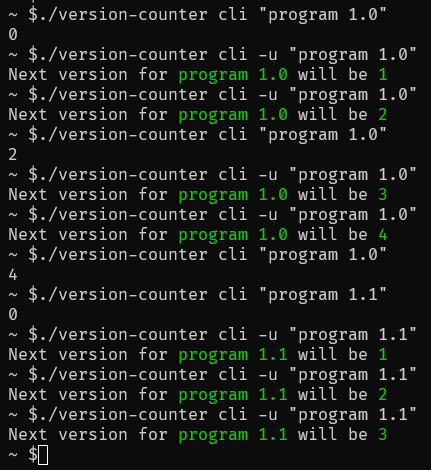
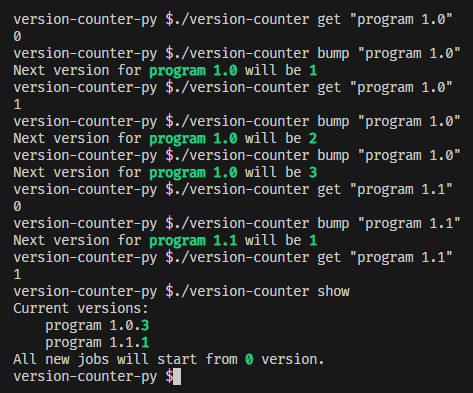
Simplify cli api - remove 'cli *' unnecessary prefix mode and create direct 'get' and 'bump' modes

diff --git a/src/main.py b/src/main.py
@@ -6,7 +6,7 @@ from version_maintainer import VersionMaintainer
 
 def run():
     parser = argparse.ArgumentParser(
-        description='Python service/cli tool for computing next version value')
+        description='Python service/cli tool for computing next version value. Source code: https://github.com/malciin/version-counter-py')
     
     parser.add_argument(
         '--versions-dir',
@@ -19,9 +19,13 @@ def run():
         help='mode',
         required=True)
     
-    cli_parser = subparsers.add_parser('cli')
-    cli_parser.add_argument('-u', '--update', action='store_true')
+    cli_parser = subparsers.add_parser('get')
     cli_parser.add_argument('job')
+
+    cli_parser = subparsers.add_parser('bump')
+    cli_parser.add_argument('job')
+
+    cli_parser = subparsers.add_parser('show')
     
     listen_parser = subparsers.add_parser('listen')
     listen_parser.add_argument(
@@ -31,7 +35,7 @@ def run():
 
     args = parser.parse_args() 
 
-    version_maintainer = VersionMaintainer(args.versions_dir, silent_mode = args.mode == 'cli')
+    version_maintainer = VersionMaintainer(args.versions_dir, silent_mode = args.mode != 'listen')
 
     if args.mode == 'listen':
         ip, port = args.address.split(':')
@@ -48,12 +52,13 @@ def run():
             except KeyboardInterrupt:
                 print('Closing... ', end='')
         print('Gracefully closed')
+    elif args.mode == 'bump':
+        next_version = version_maintainer.bump_version_number(args.job)
+        print(f'Next version for {utils.accent_text(args.job)} will be {utils.accent_text(str(next_version))}')
+    elif args.mode == 'get':
+        print(version_maintainer.get_version_number(args.job))
     else:
-        if args.update:
-            next_version = version_maintainer.bump_version_number(args.job)
-            print(f'Next version for {utils.accent_text(args.job)} will be {utils.accent_text(str(next_version))}')
-        else:
-            print(version_maintainer.get_version_number(args.job))
+        version_maintainer.print_current_versions_values()
 
 if __name__ == '__main__':
     run()

diff --git a/src/version_maintainer.py b/src/version_maintainer.py
@@ -18,7 +18,7 @@ class VersionMaintainer:
 
         if not silent_mode:
             print(startup_log)
-            self.__print_current_versions_values()
+            self.print_current_versions_values()
         
     def get_version_number(self, prefix: str) -> int:
         version_path = self.__get_path(prefix)
@@ -41,6 +41,21 @@ class VersionMaintainer:
             fprint(f'{v}')
 
         return v
+    
+    def print_current_versions_values(self) -> str:
+        any_printed = False
+
+        print('Current versions:')
+        for z in Path(self.__versions_dir).rglob('*/*'):
+            if not any_printed:
+                any_printed = True
+            splitted = utils.read_utf8(z).splitlines()
+            version = self.__get_version_number(splitted)
+            print(f'    {splitted[0][2:]}.{utils.accent_text(str(version))}')
+        
+        if not any_printed: print('    <None>')
+
+        print(f'All new jobs will start from {utils.accent_text(0)} version.')
 
     def __get_key(self, prefix: str) -> str:
         return hashlib.md5(prefix.encode()).hexdigest()
@@ -48,19 +63,6 @@ class VersionMaintainer:
     def __get_path(self, prefix: str) -> str:
         key = self.__get_key(prefix)
         return os.path.join(self.__versions_dir, key[0], key[1:])
-
-    def __print_current_versions_values(self) -> str:
-        header_printed = False
-
-        for z in Path(self.__versions_dir).rglob('*/*'):
-            if not header_printed:
-                header_printed = True
-                print('Current versions:')
-            splitted = utils.read_utf8(z).splitlines()
-            version = self.__get_version_number(splitted)
-            print(f'    {splitted[0][2:]}.{utils.accent_text(str(version))}')
-        
-        print(f'All new jobs will start from {utils.accent_text(0)} version.')
 
     def __get_version_number(self, lines: list[str]) -> int:
         return int(next(l for l in lines if not l.startswith('#')))

diff --git a/README.md b/README.md
@@ -1,99 +1,86 @@
 **`version-counter-py`**
 
 - [About](#about)
-  * [CLI mode](#cli-mode)
-  * [API mode](#api-mode)
+- [Requirements](#requirements)
 - [Usage](#usage)
-  * [CLI](#cli)
-  * [API](#api)
-  * [Adding to jenkins](#adding-to-jenkins)
-    + [Example of usage](#example-of-usage)
-  * [Change `.versions` directory:](#versions-dir-change)
+- [Examples](#examples)
+  * [CLI mode](#cli-mode)
+  * [WebAPI mode](#webapi-mode)
+  * [Jenkins](#jenkins)
+    + [Installation](#installation)
+    + [Pipeline example: patch version generation](#pipeline-example-patch-version-gen)
 
 # About
+<img width="150px" src="https://upload.wikimedia.org/wikipedia/commons/8/82/Semver.jpg" />
 
-Simple 3KB python script that maintains correct patch number useful for jenkins builds.
+Simple 3KB python script that maintains correct version number which can be useful for jenkins builds.
 
-It remembers last patch number for given prefix - which could be anything but for jenkins purposes it could be something like `$JOB_NAME + $VERSION_PREFIX`.
+Script remembers current version for given **prefix**. **Prefix** could be anything but for jenkins purposes it could be something like 
 
-It can be called by simply running script from cli or by running `listen` mode which starts api service that can be called with curl.
+- `PREFIX = $JOB_NAME + $MAJOR_VERSION` - to get minor version for job
+- `PREFIX = $JOB_NAME + $MAJOR_MINOR_VERSION` - to get patch version for job
+- etc.
 
-<img src="https://upload.wikimedia.org/wikipedia/commons/8/82/Semver.jpg" />
+It can be called directly by running script from shell or remotely with curl by running it as WebApi service.
+
+# Requirements
+
+Linux`*` with Python 3.9+`**`
+
+`*` - should work also on windows without problems but I've not tested that.
+
+`**` - may work on older Python 3 versions but I've not tested that.
+
+# Usage
+
+`./version-counter get "Program 1.0"` - gets version for prefix `Program 1.0`
+
+`./version-counter bump "Program 1.0"` - bumps version for prefix `Program 1.0` 
+
+`./version-counter show` - shows all currently maintained versions
+
+`./version-counter listen :8080` - starts WebAPI which can be used with curl like:
+
+```bash
+curl -sd "Program 1.0" localhost:8080 # returns same result as `get "Program 1.0"`
+curl -X PATCH -d "Program 1.0" localhost:8080 # returns same result as `bump "Program 1.0"`
+```
+
+`./version-counter -h` - shows basic help
+
+`./version-counter listen -h` - shows basic help for listen mode
+
+Default `.versions` directory location could be set by providing `--versions-dir`. 
+
+# Examples
 
 ## CLI mode
 
 <img src="./examples/output_cli.png" />
 
-## API mode
+## WebAPI mode
 
 <img src="./examples/output_listen.png" />
 
-# Usage
 
-Tested on linux.
+## Jenkins
 
-Download latest `version-counter` and make it executable by `chmod u+x version-counter`
+### Installation
 
-Now for checking all available arguments run:
-
-- `./version-counter -h` to get general help
-
-- `./version-counter cli -h` to get help about cli mode
-
-- `./version-counter listen -h` to get help about api mode
-
-## CLI
-
-Getting version number
-
-```
-./version-counter cli "folder/job-name 1.0"
-```
-
-Bumping version number
-
-```
-./version-counter cli -u "folder/job-name 1.0"
-```
-
-## API
-
-Starting server:
-
-```
-./version-counter listen :8080
-```
-
-Getting version number:
-
-```
-curl -sd "folder/job-name 1.0" localhost:8080
-```
-
-Bumping version number:
-
-```
-curl -X PATCH -d "folder/job-name 1.0" localhost:8080
-```
-
-## Adding to jenkins
-
-Simply copy `version-counter` to `JENKINS_HOME` and make it executable. Version details will be automatically stored in `.versions` folder.
-
-Ex:
+Simply copy `version-counter` to `JENKINS_HOME` and make it executable by running:
 
 ```
 cp version-counter jenkins_home/.
 cd jenkins_home && chmod o+x version-counter
 ```
 
-<a href="./examples/jenkinsfile">Example jenkins job</a>
+Then `version-counter` could be called as `sh '~/version-counter get "$PREFIX"'` pipeline step. Version data will be automatically stored in `JENKINS_HOME/.versions` folder.
 
-### Example of usage
+### Pipeline example: patch version generation<a id="pipeline-example-patch-version-gen"></a>
 
 Full jenkins file used in following example is available <a href="examples/jenkinsfile">here</a>.
 
-| Job number | Version prefix | Program output | Version combined
+| Job number | Major minor version | Program output (_used as patch version_) | Version combined
 |---|---|---|---|
 | #1 (Success) | 1.0 | `0` | 1.0.`0`
 | #2 (Success) | 1.0 | `1` | 1.0.`1`
@@ -106,16 +93,12 @@ Full jenkins file used in following example is available <a href="examples/jenki
 | #9 (Success) | 1.0 | `4` | 1.0.`4`
 | #10 (Success) | 0.1 | `0` | 0.1.`0`
 
-In upper example version is bumped only in success builds - *version counter with `-u` flag* is called only in `post { success { ... } }` block. It could be changed by putting *version counter wth `-u` flag* in different post segment.
+In linked <a href="examples/jenkinsfile">jenkinsfile</a> patch version is bumped only for success builds - `version-counter bump` is called in `post { success { ... } }` block. That could be modifed by putting `version-counter bump` in different post block.
 
-Legend:
+**Explanation:**
 
-`Version prefix` - manually set from environment variable or user input. In jenkinsfile its named `VERSION_PREFIX`
+*Major minor version* - manually set from environment variable or user input. In jenkinsfile its named `MAJOR_MINOR_VERSION`
 
-*Version combined* - combines version prefix with output from `version-counter`. In jenkins file its the line with `env.VERSION = env.VERSION_PREFIX + '.' + env.VERSION_COUNTER`
+*Program output* - result of `version-counter get "JOB_NAME MAJOR_MINOR_VERSION"`
 
-## Change `.versions` directory:<a id="versions-dir-change"></a>
-
-Specify `--versions-dir X` argument like:
-
-`./version-counter --versions-dir .data cli "job_with_number_readed_from_.data_dir"`
+*Version combined* - combines version prefix with output from `version-counter`. In jenkins file its the line with `env.VERSION = env.MAJOR_MINOR_VERSION + '.' + env.PATCH_VERSION`
